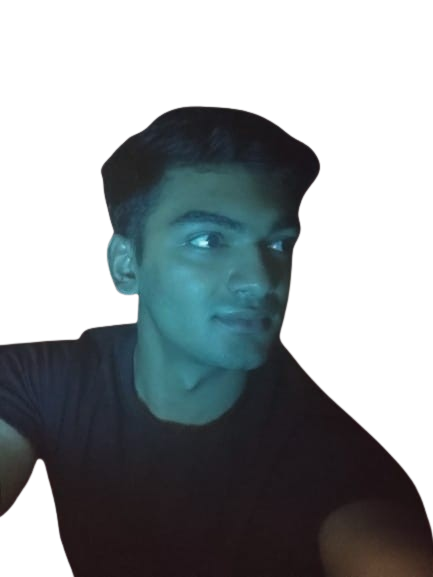
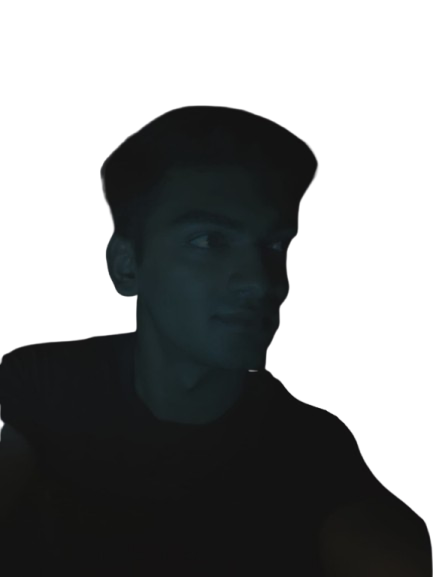
m5

diff --git a/app/component/Page1.jsx b/app/component/Page1.jsx
@@ -328,8 +328,8 @@ const Page1 = () => {
                 <div className="hymCircle border-r-3 border-l-3 border-white/5 rounded-full flex justify-center items-center h-[20rem] w-[20rem]">
                   <img
                     
-                    src="/me1.png"
-                    className="relative h-[15rem]   bottom-3 mask- rounded-full"
+                    src="/me.png"
+                    className="relative h-[19rem]   bottom-7 mask- rounded-full"
                     alt=""
                   />
                 </div>
